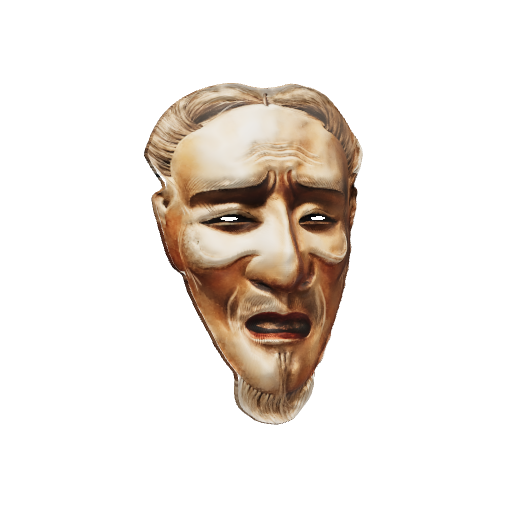
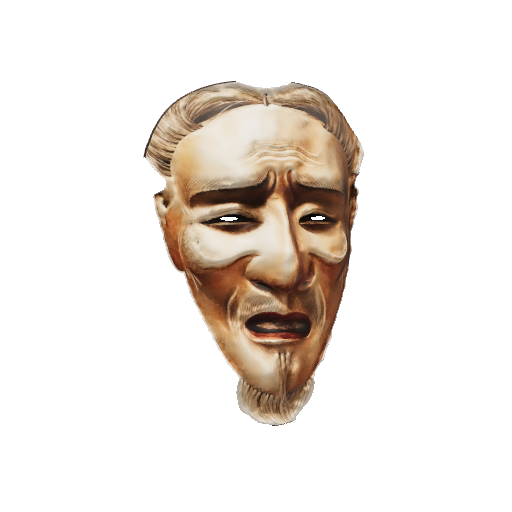
Remove the thick rim: masks go back to a thin carved edge
Keeps the smoother face surface (no blocky patch on Hannya's nose) and the softer gloss.

diff --git a/js/build.js b/js/build.js
@@ -43,39 +43,27 @@ function frontGeometry(H, O){
   return g;
 }
 
-// The edge rolls over into a thick rim, as on a carved mask, and the back follows the
-// front at the shell's thickness. The rim (`lip` deep at the edge) is its own group so it
-// can wear the front's paint; its texture is read a little inside the edge, where the
-// paint is solid.
-function backGeometry(H, O, thick = 0.42, lip = 0.85){
+// The edge rolls over and the back follows the front at a mask's thickness.
+function backGeometry(H, O, thick = 0.42){
   const hb = (x, y) => Math.min(H.h(x, y) - thick, baseZ(x, y) + 0.35 * Math.max(H.feat(x, y), 0) - thick);
-  const rings = [], ringUV = [];
+  const rings = [];
   const Rs = Array.from({ length: NT }, (_, j) => O.R((j / NT) * TAU));
-  const ring = (f, inset = null) => {
-    rings.push(Array.from({ length: NT }, (_, j) => f((j / NT) * TAU, Rs[j])));
-    ringUV.push(inset === null ? null : Array.from({ length: NT }, (_, j) => edge((j / NT) * TAU, Rs[j] - inset)));
-  };
+  const ring = (f) => Array.from({ length: NT }, (_, j) => f((j / NT) * TAU, Rs[j]));
   const edge = (t, R) => [Math.cos(t) * R, O.cy + Math.sin(t) * R];
-  const fz = (t, R) => H.h(...edge(t, R));
-  ring((t, R) => [...edge(t, R), fz(t, R)], 0.3);
-  ring((t, R) => [...edge(t, R + 0.07), fz(t, R) - 0.14], 0.3);              // the rounded lip
-  ring((t, R) => [...edge(t, R + 0.1), fz(t, R) - lip * 0.5], 0.3);
-  ring((t, R) => [...edge(t, R + 0.06), fz(t, R) - lip], 0.3);               // the rim's back edge
-  ring((t, R) => { const [x, y] = edge(t, R - 0.5); return [x, y, Math.min(hb(x, y), fz(t, R) - lip * 0.9)]; });
+  rings.push(ring((t, R) => { const [x, y] = edge(t, R); return [x, y, H.h(x, y)]; }));
+  rings.push(ring((t, R) => { const [x, y] = edge(t, R + 0.09); return [x, y, H.h(...edge(t, R)) - 0.2]; }));
+  rings.push(ring((t, R) => { const [x, y] = edge(t, R + 0.05); return [x, y, H.h(...edge(t, R)) - thick - 0.05]; }));
+  rings.push(ring((t, R) => { const [x, y] = edge(t, R - 0.2); return [x, y, hb(x, y)]; }));
   const NB = 40;
   for (let i = NB - 1; i >= 1; i--){
-    const r = (i / NB) * ((Rs[0] - 0.5) / Rs[0]);
-    ring((t, R) => { const x = Math.cos(t) * r * R, y = O.cy + Math.sin(t) * r * R; return [x, y, hb(x, y)]; });
+    const r = (i / NB) * ((Rs[0] - 0.2) / Rs[0]);
+    rings.push(ring((t, R) => { const x = Math.cos(t) * r * R, y = O.cy + Math.sin(t) * r * R; return [x, y, hb(x, y)]; }));
   }
   const pos = [], uv = [], idx = [];
-  rings.forEach((rg, i) => rg.forEach(([x, y, z], j) => {
-    const [u, v] = ringUV[i] ? ringUV[i][j] : [x, y];
-    pos.push(x, y, z); uv.push((u + SPAN / 2) / SPAN, (v + SPAN / 2) / SPAN);
-  }));
+  for (const rg of rings) for (const [x, y, z] of rg){ pos.push(x, y, z); uv.push((x + SPAN / 2) / SPAN, (y + SPAN / 2) / SPAN); }
   const c = pos.length / 3;
   pos.push(0, O.cy, hb(0, O.cy)); uv.push(0.5, (O.cy + SPAN / 2) / SPAN);
   const at = (i, j) => i * NT + (j % NT);
-  const RIM = 3; // the rim's strips; the rest is the back
   for (let i = 0; i < rings.length - 1; i++) for (let j = 0; j < NT; j++){
     const a = at(i, j), b = at(i + 1, j), cc = at(i + 1, j + 1), d = at(i, j + 1);
     idx.push(a, b, cc, a, cc, d);
@@ -86,36 +74,8 @@ function backGeometry(H, O, thick = 0.42, lip = 0.85){
   g.setAttribute('position', new THREE.Float32BufferAttribute(pos, 3));
   g.setAttribute('uv', new THREE.Float32BufferAttribute(uv, 2));
   g.setIndex(idx);
-  g.addGroup(0, RIM * NT * 6, 0);
-  g.addGroup(RIM * NT * 6, idx.length - RIM * NT * 6, 1);
   g.computeVertexNormals();
   return g;
-}
-
-// A painted mask's own edge: going round the outline, the outermost painted point (read
-// from the paint's alpha), smoothed, never beyond the outline. The shell then ends where
-// the paint ends, so its rim closes the mask instead of being cut away.
-function paintedOutline(O, alphaCanvas){
-  const n = alphaCanvas.width, d = alphaCanvas.getContext('2d', { willReadFrequently: true }).getImageData(0, 0, n, n).data;
-  const at = (x, y) => {
-    const px = Math.floor((x + SPAN / 2) / SPAN * n), py = Math.floor((SPAN / 2 - y) / SPAN * n);
-    return px < 0 || py < 0 || px >= n || py >= n ? 0 : d[(py * n + px) * 4];
-  };
-  const M = 720, raw = new Float32Array(M);
-  for (let k = 0; k < M; k++){
-    const t = (k / M) * TAU, R0 = O.R(t), c = Math.cos(t), s = Math.sin(t);
-    let r = R0;
-    while (r > R0 * 0.35 && at(c * r, O.cy + s * r) < 140) r -= 0.025;
-    raw[k] = r;
-  }
-  // smooth round the edge (wisps of hair or a stray speck should not make spikes)
-  const sm = new Float32Array(M), W = 4;
-  for (let k = 0; k < M; k++){ let s = 0; for (let q = -W; q <= W; q++) s += raw[(k + q + M) % M]; sm[k] = s / (2 * W + 1); }
-  const R = (t) => {
-    const f = ((t / TAU) % 1 + 1) % 1 * M, k = Math.floor(f), w = f - k;
-    return Math.min(O.R(t), sm[k % M] * (1 - w) + sm[(k + 1) % M] * w - 0.08);
-  };
-  return { R, cy: O.cy };
 }
 
 // ------------------------------------------------------------------ textures
@@ -337,10 +297,9 @@ export function buildMask(def, { maxAniso = 4, size = TEX } = {}){
   const t0 = performance.now();
   const features = def.features();
   const H = heightField(features);
-  const O0 = outline(def.outline);
+  const O = outline(def.outline);
   const holes = features.filter((f) => f.k === 'hole');
-  const tex = paint(def, H, O0, holes, size);
-  const O = def.photo ? paintedOutline(O0, tex.alpha) : O0;
+  const tex = paint(def, H, O, holes, size);
   const L = def.look;
 
   const map = texture(tex.albedo, true, maxAniso), orm = texture(tex.orm, false, maxAniso), nmap = texture(tex.normal, false, maxAniso);
@@ -356,13 +315,8 @@ export function buildMask(def, { maxAniso = 4, size = TEX } = {}){
   const back = new THREE.MeshStandardMaterial({ color: L.back || '#2a170c', roughness: 0.5, metalness: 0.05, alphaMap: amap, alphaTest: 0.5 });
   const g = new THREE.Group();
   g.name = def.id;
-  // the rim wears the front's paint, a shade darker where it turns away from the light
-  const rimMat = new THREE.MeshPhysicalMaterial({
-    map, color: '#c9bcb0', roughness: 0.5, metalness: 0, envMapIntensity: L.env ?? 0.55,
-    clearcoat: front.clearcoat, clearcoatRoughness: front.clearcoatRoughness,
-  });
   const fm = new THREE.Mesh(frontGeometry(H, O), front);
-  const bm = new THREE.Mesh(backGeometry(H, O), [rimMat, back]);
+  const bm = new THREE.Mesh(backGeometry(H, O), back);
   fm.name = 'front'; bm.name = 'back';
   g.add(fm, bm);
   def.extras?.(g, { H, O, THREE, rng: rng(def.seed + 11), maps: { map, orm, nmap } });

diff --git a/README.md b/README.md
@@ -44,8 +44,7 @@ The look of each mask follows the reference paintings supplied for this project.
 No 3D model files are downloaded: each mask is built in the browser from its painting.
 
 - **The surface.** Each mask is a shell carved over the wearer's face (MindAR's face
-  model), a few millimetres off the skin. Its edge follows the painted edge and rolls over
-  into a thick, rounded rim (about 8 mm), so from the side it reads as a solid carved mask. The painting's light and shade add relief on
+  model), a few millimetres off the skin. The painting's light and shade add relief on
   top, and a few carved features add what a painting cannot: a nose that stands out,
   bulging eyeballs, cheeks and a mouth set back. Spy-holes are cut where the pupils are.
 - **The paint.** The cleaned painting is projected onto the shell from the front, with the
